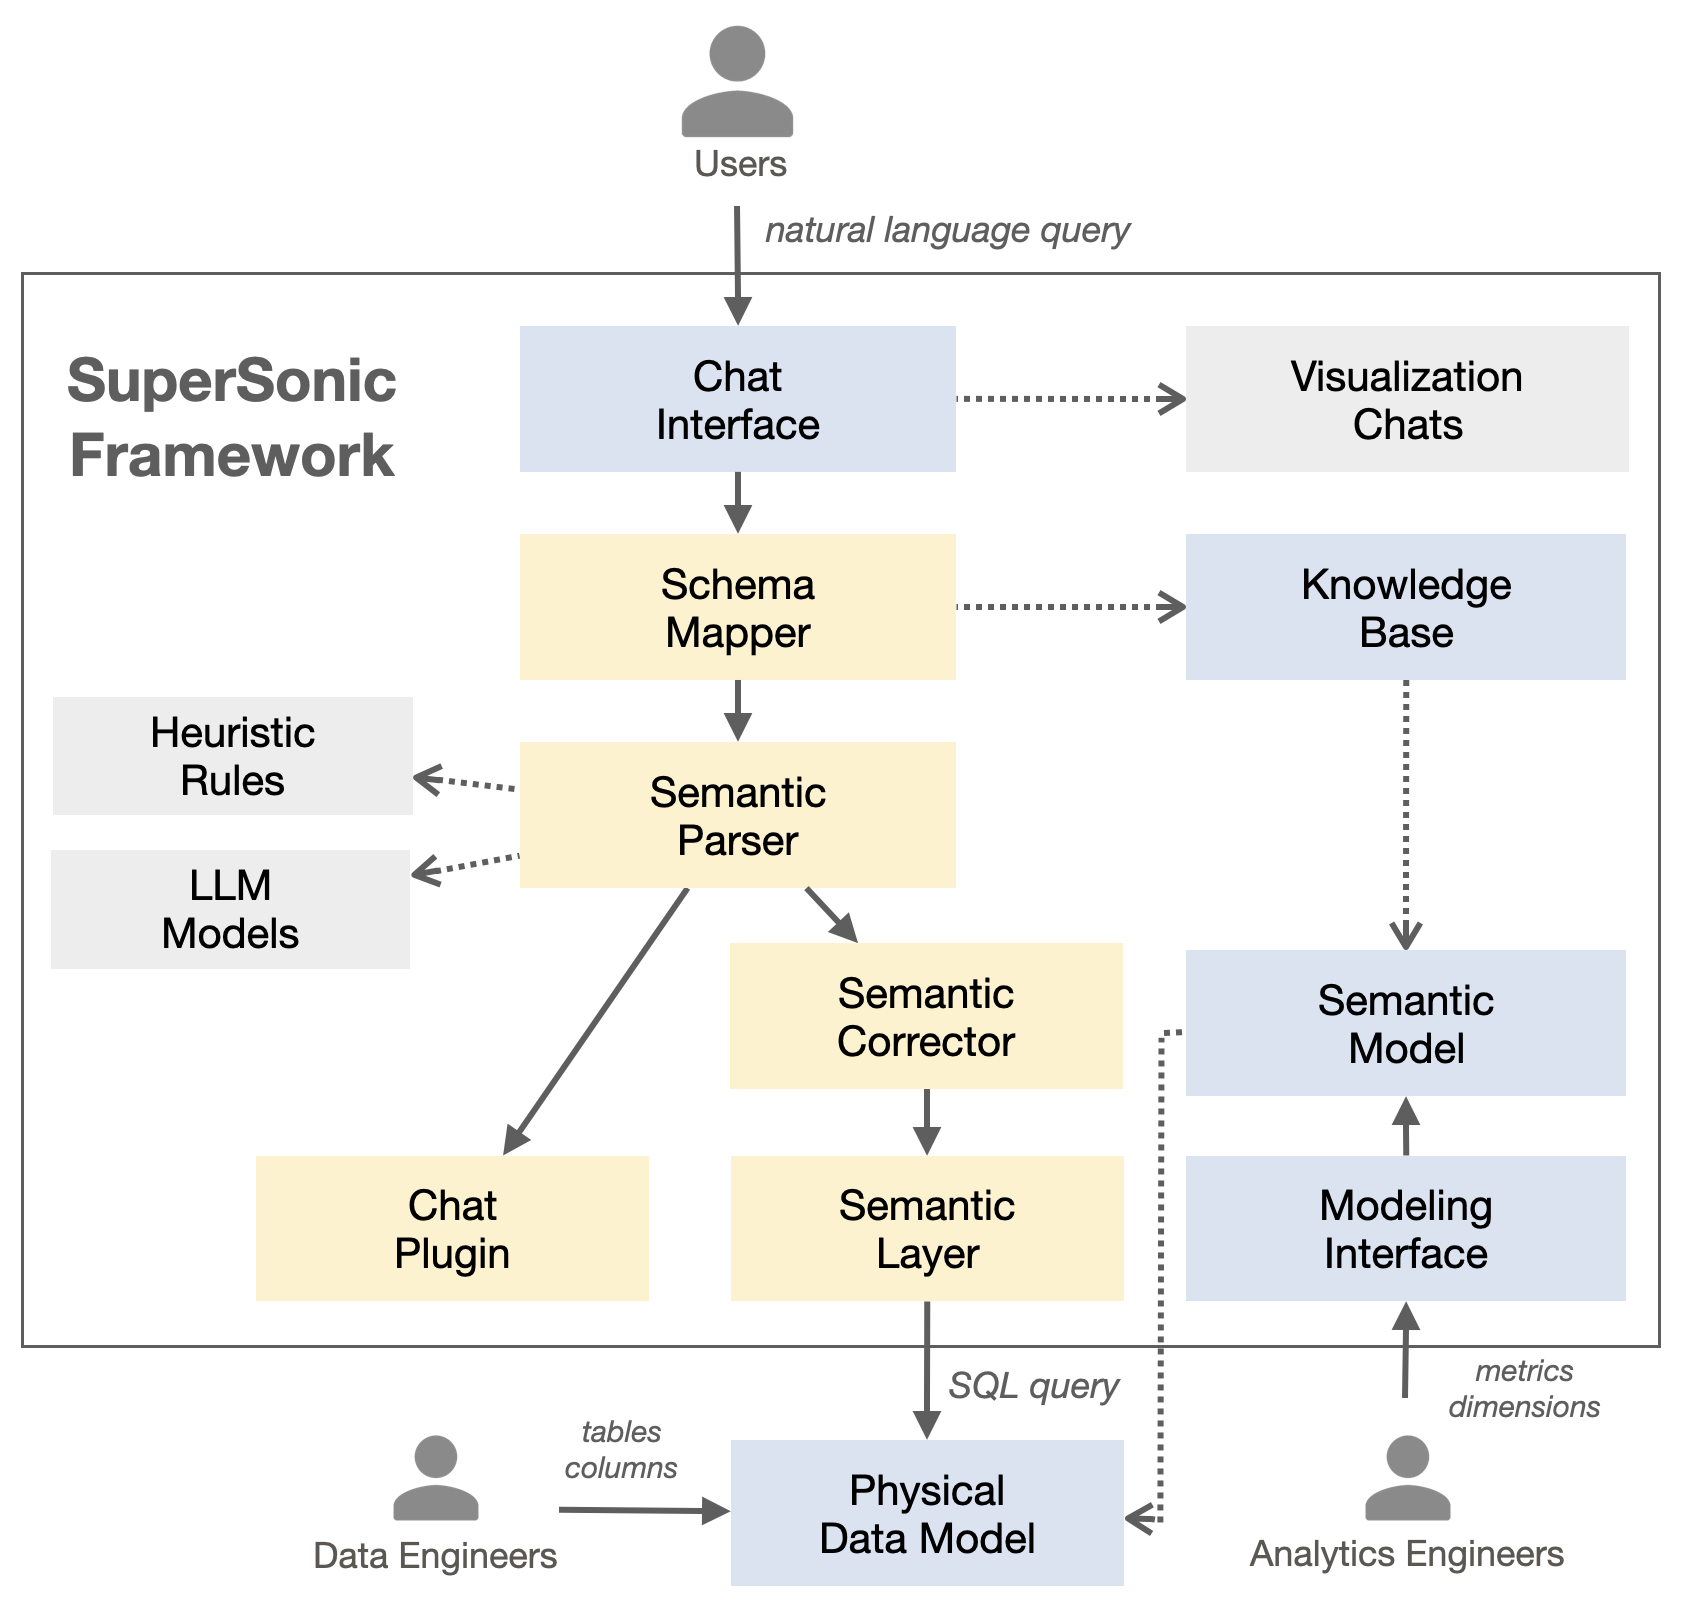
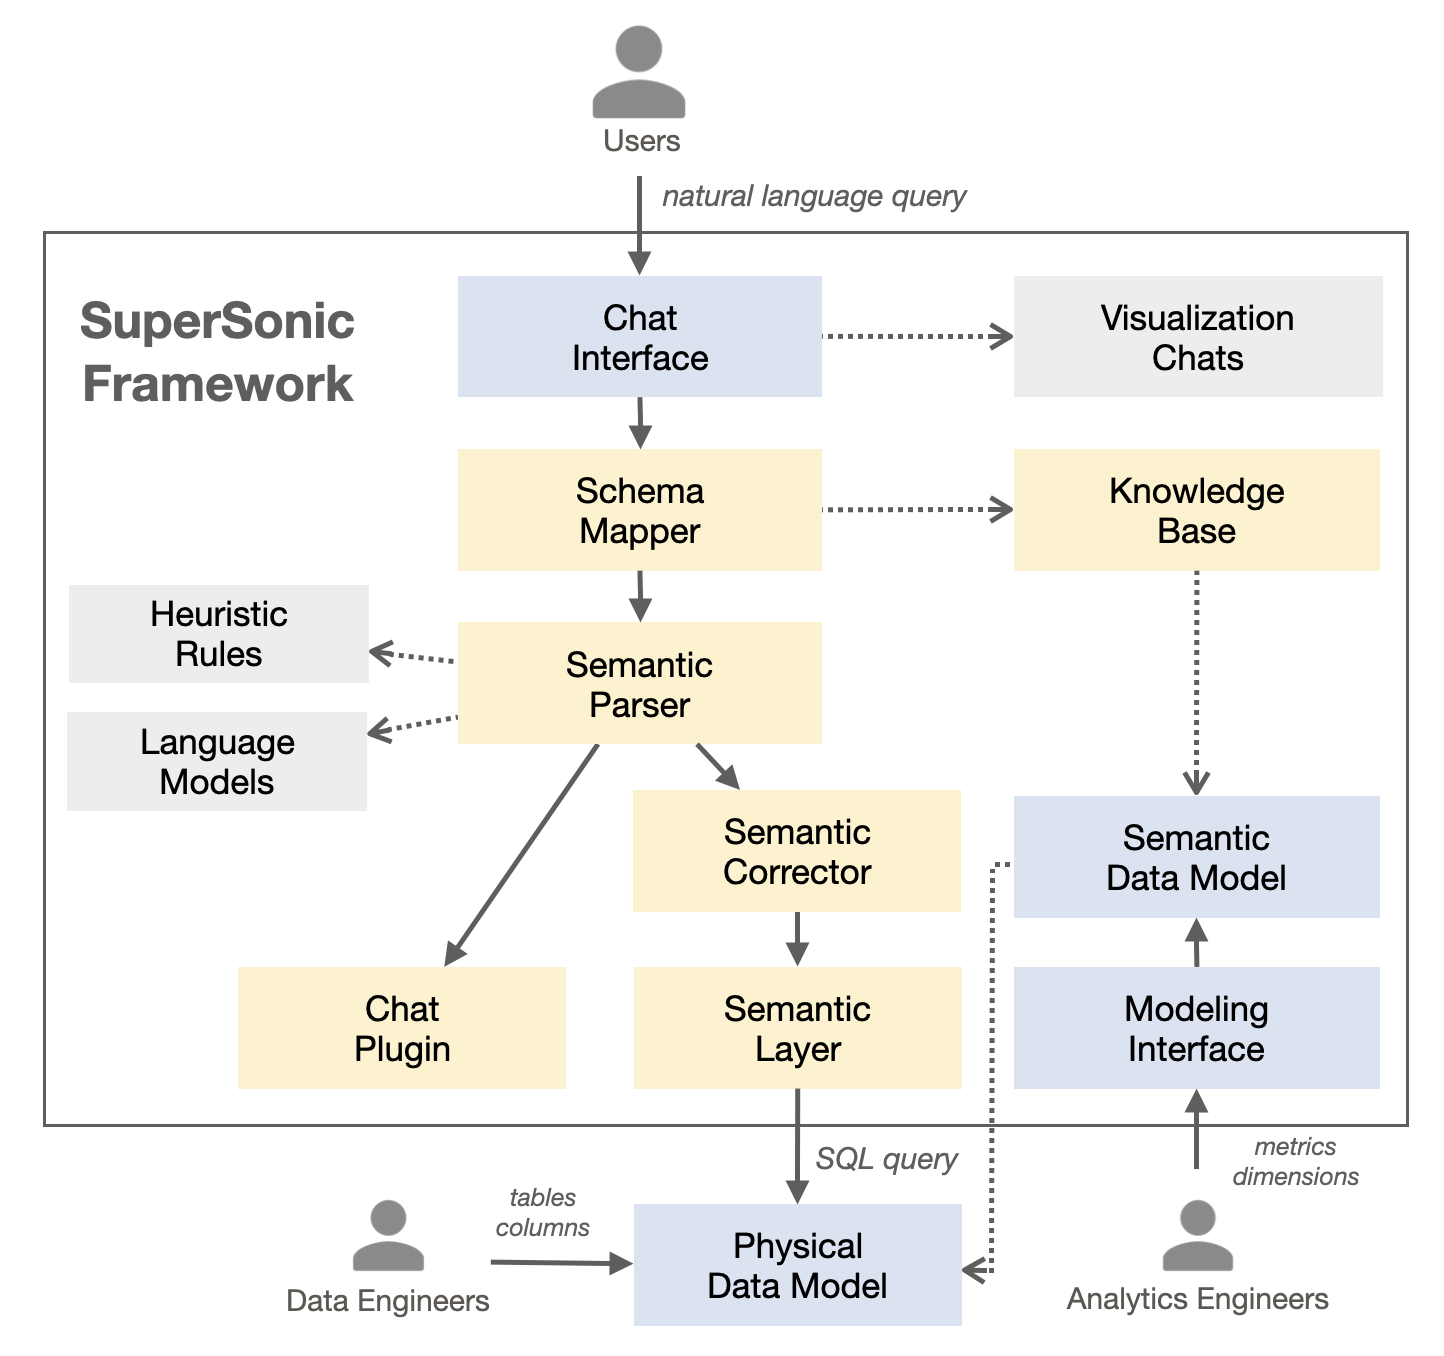
[improvement][docs]Add wechat contact to README

diff --git a/README.md b/README.md
@@ -32,15 +32,17 @@ The high-level architecture and main process flow is as follows:
 
 <img src="./docs/images/supersonic_components.png" height="65%" width="65%" align="center"/> 
 
-- **Schema Mapper:** identifies references to schema elements(metrics/dimensions/entities/values) in user queries. It matches the query text against a knowledge base constructed from the semantic models.
+- **Knowledge Base:** extracts schema information periodically from the semantic models and build dictionary and index to facilitate schema mapping.
 
-- **Semantic Parser:** understands user queries and extract semantic information. It consists of a combination of rule-based and model-based parsers, each of which deals with specific scenarios.
+- **Schema Mapper:** identifies references to schema elements(metrics/dimensions/entities/values) in user queries. It matches the query text against the knowledge base.
+
+- **Semantic Parser:** understands user queries and extracts semantic information. It consists of a combination of rule-based and model-based parsers, each of which deals with specific scenarios.
 
 - **Semantic Corrector:** checks validity of extracted semantic information and performs correction and optimization if needed.
 
 - **Semantic Layer:** performs execution according to extracted semantic information. It generates SQL queries and executes them against physical data models.
 
-- **Chat Plugin:** extends functionality with third-party tools. Given all configured plugins with function description and sample questions, the LLM is going to select the most suitable one.  
+- **Chat Plugin:** extends functionality with third-party tools. The LLM is going to select the most suitable one, given all configured plugins with function description and sample questions.
 
 ## Quick Demo
 
@@ -61,3 +63,9 @@ Pull the source code and run script "assembly/bin/build-standalone.sh" to build 
 ### Build for Distributed Mode 
 
 Pull the source code and run scripts "assembly/bin/build-chat.sh" and "assembly/bin/build-semantic.sh" separately to build packages.
+
+## WeChat Contact
+
+Please join the chat group to suggest feedbacks or ideas:
+
+<img src="./docs/images/wechat_contact.jpeg" height="30%" width="30%" align="center"/> 

diff --git a/README_CN.md b/README_CN.md
@@ -30,7 +30,9 @@
 
 <img src="./docs/images/supersonic_components.png" height="65%" width="65%" align="center"/> 
 
-- **模式映射器(Schema Mapper)：** 基于语义模型构建知识库，然后将自然语言文本在知识库中进行匹配，为后续的语义解析提供相关信息。
+- **知识库(Knowledge Base)：** 定期从语义模型中提取相关的模式信息，构建词典和索引，以便后续的模式映射。
+
+- **模式映射器(Schema Mapper)：** 将自然语言文本在知识库中进行匹配，为后续的语义解析提供相关信息。
 
 - **语义解析器(Semantic Parser)：** 理解用户查询并抽取语义信息，其由一组基于规则和基于模型的解析器组成，每个解析器可应对不同的特定场景。
 
@@ -59,3 +61,9 @@
 ### Distributed模式构建
 
 下载源码包，分别运行脚本"assembly/bin/build-chat.sh"、"assembly/bin/build-semantic.sh"，为问答层服务和语义层服务编译打包
+
+## 微信联系方式
+
+欢迎加入微信群反馈建议：
+
+<img src="./docs/images/wechat_contact.jpeg" height="30%" width="30%" align="center"/> 
